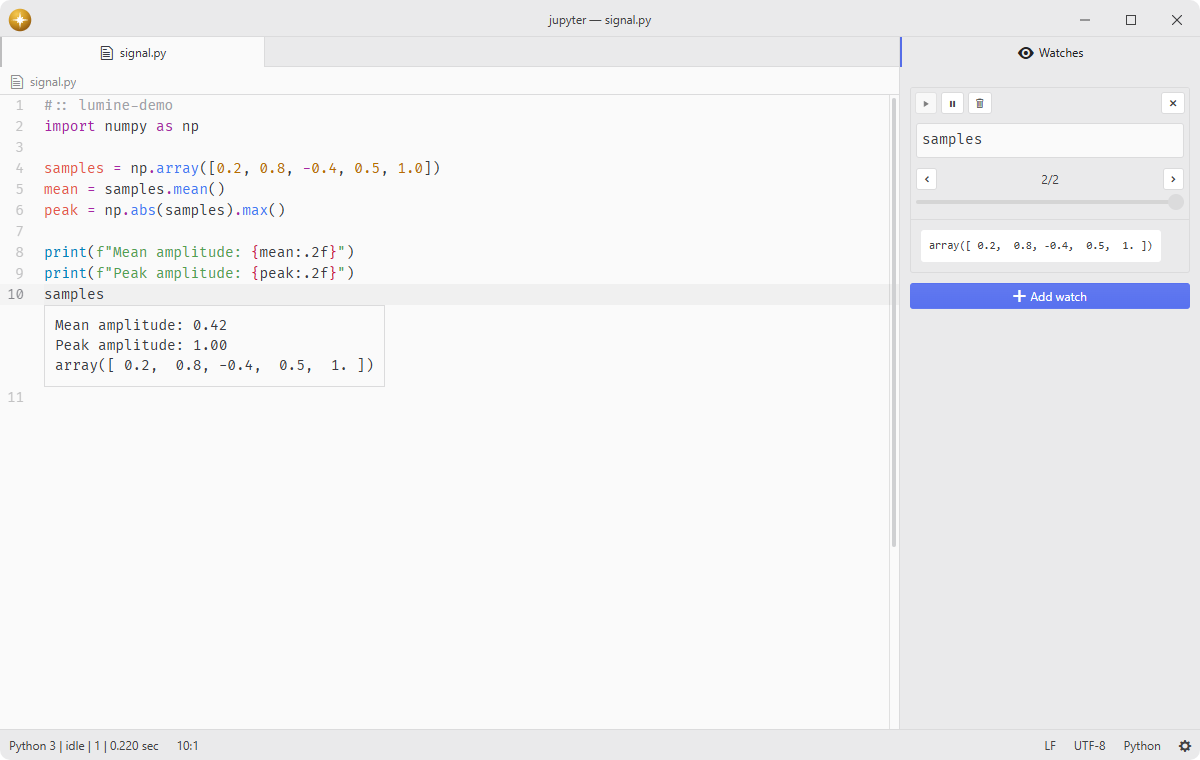
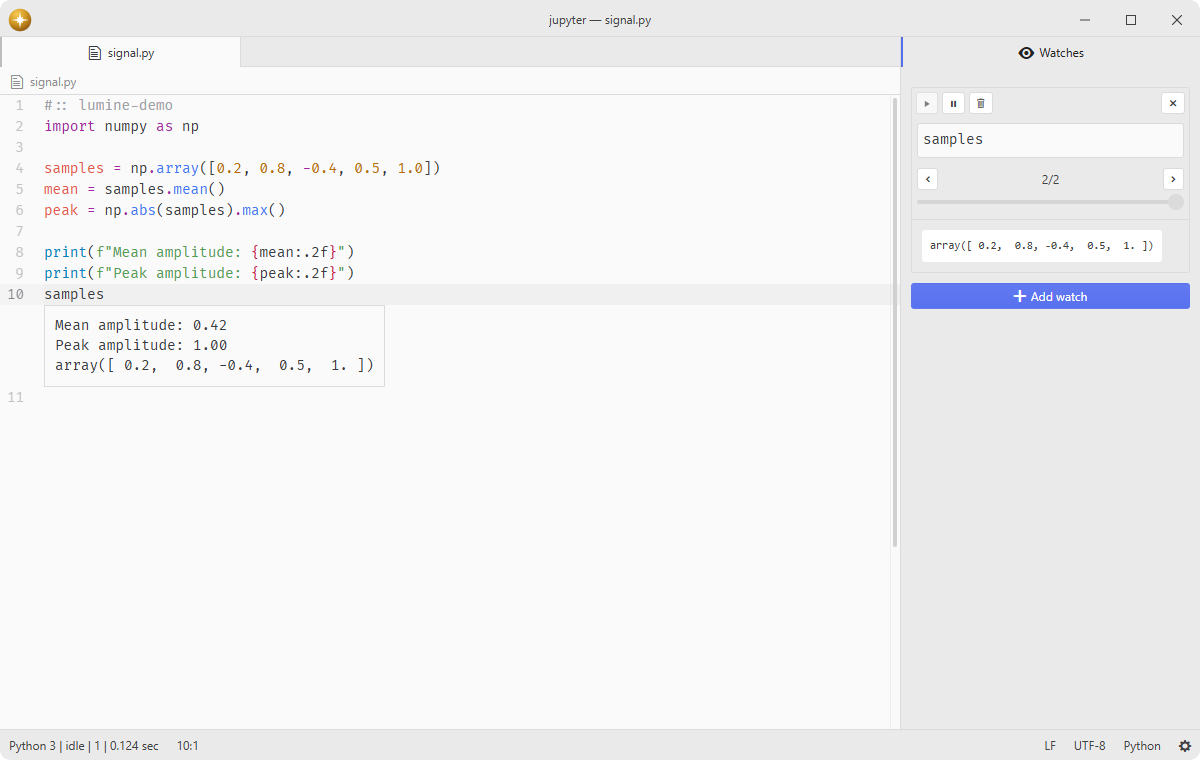
Use native watch controls

diff --git a/lib/watch.jsx b/lib/watch.jsx
@@ -95,7 +95,7 @@ class Watch {
         <div className="watch-toolbar">
           <button
             type="button"
-            className="btn btn-xs icon-button icon icon-playback-play watch-run-btn"
+            className="btn btn-xs icon icon-playback-play watch-run-btn native-key-bindings"
             onClick={this.handleRun}
             title="Run watch"
             attributes={{ "aria-label": "Run watch" }}
@@ -103,7 +103,7 @@ class Watch {
           />
           <button
             type="button"
-            className="btn btn-xs icon-button icon icon-playback-pause watch-pause-btn"
+            className="btn btn-xs icon icon-playback-pause watch-pause-btn native-key-bindings"
             onClick={this.handlePause}
             title="Pause watching"
             attributes={{ "aria-label": "Pause watching" }}
@@ -111,14 +111,14 @@ class Watch {
           />
           <button
             type="button"
-            className="btn btn-xs icon-button icon-button-no-scale icon icon-trashcan watch-clear-btn"
+            className="btn btn-xs icon icon-trashcan watch-clear-btn native-key-bindings"
             onClick={this.handleClear}
             title="Clear output"
             attributes={{ "aria-label": "Clear output" }}
           />
           <button
             type="button"
-            className="btn btn-xs icon-button icon-button-no-scale icon icon-x watch-remove-btn"
+            className="btn btn-xs icon icon-x watch-remove-btn native-key-bindings"
             onClick={this.handleRemove}
             title="Remove watch"
             attributes={{ "aria-label": "Remove watch" }}
@@ -131,7 +131,7 @@ class Watch {
               <div className="current-output">
                 <button
                   type="button"
-                  className="btn btn-xs icon-button icon icon-chevron-left"
+                  className="btn btn-xs icon icon-chevron-left native-key-bindings"
                   onClick={() => history.decrementIndex()}
                   title="Previous run"
                   attributes={{ "aria-label": "Previous run" }}
@@ -141,7 +141,7 @@ class Watch {
                 </span>
                 <button
                   type="button"
-                  className="btn btn-xs icon-button icon icon-chevron-right"
+                  className="btn btn-xs icon icon-chevron-right native-key-bindings"
                   onClick={() => history.incrementIndex()}
                   title="Next run"
                   attributes={{ "aria-label": "Next run" }}
